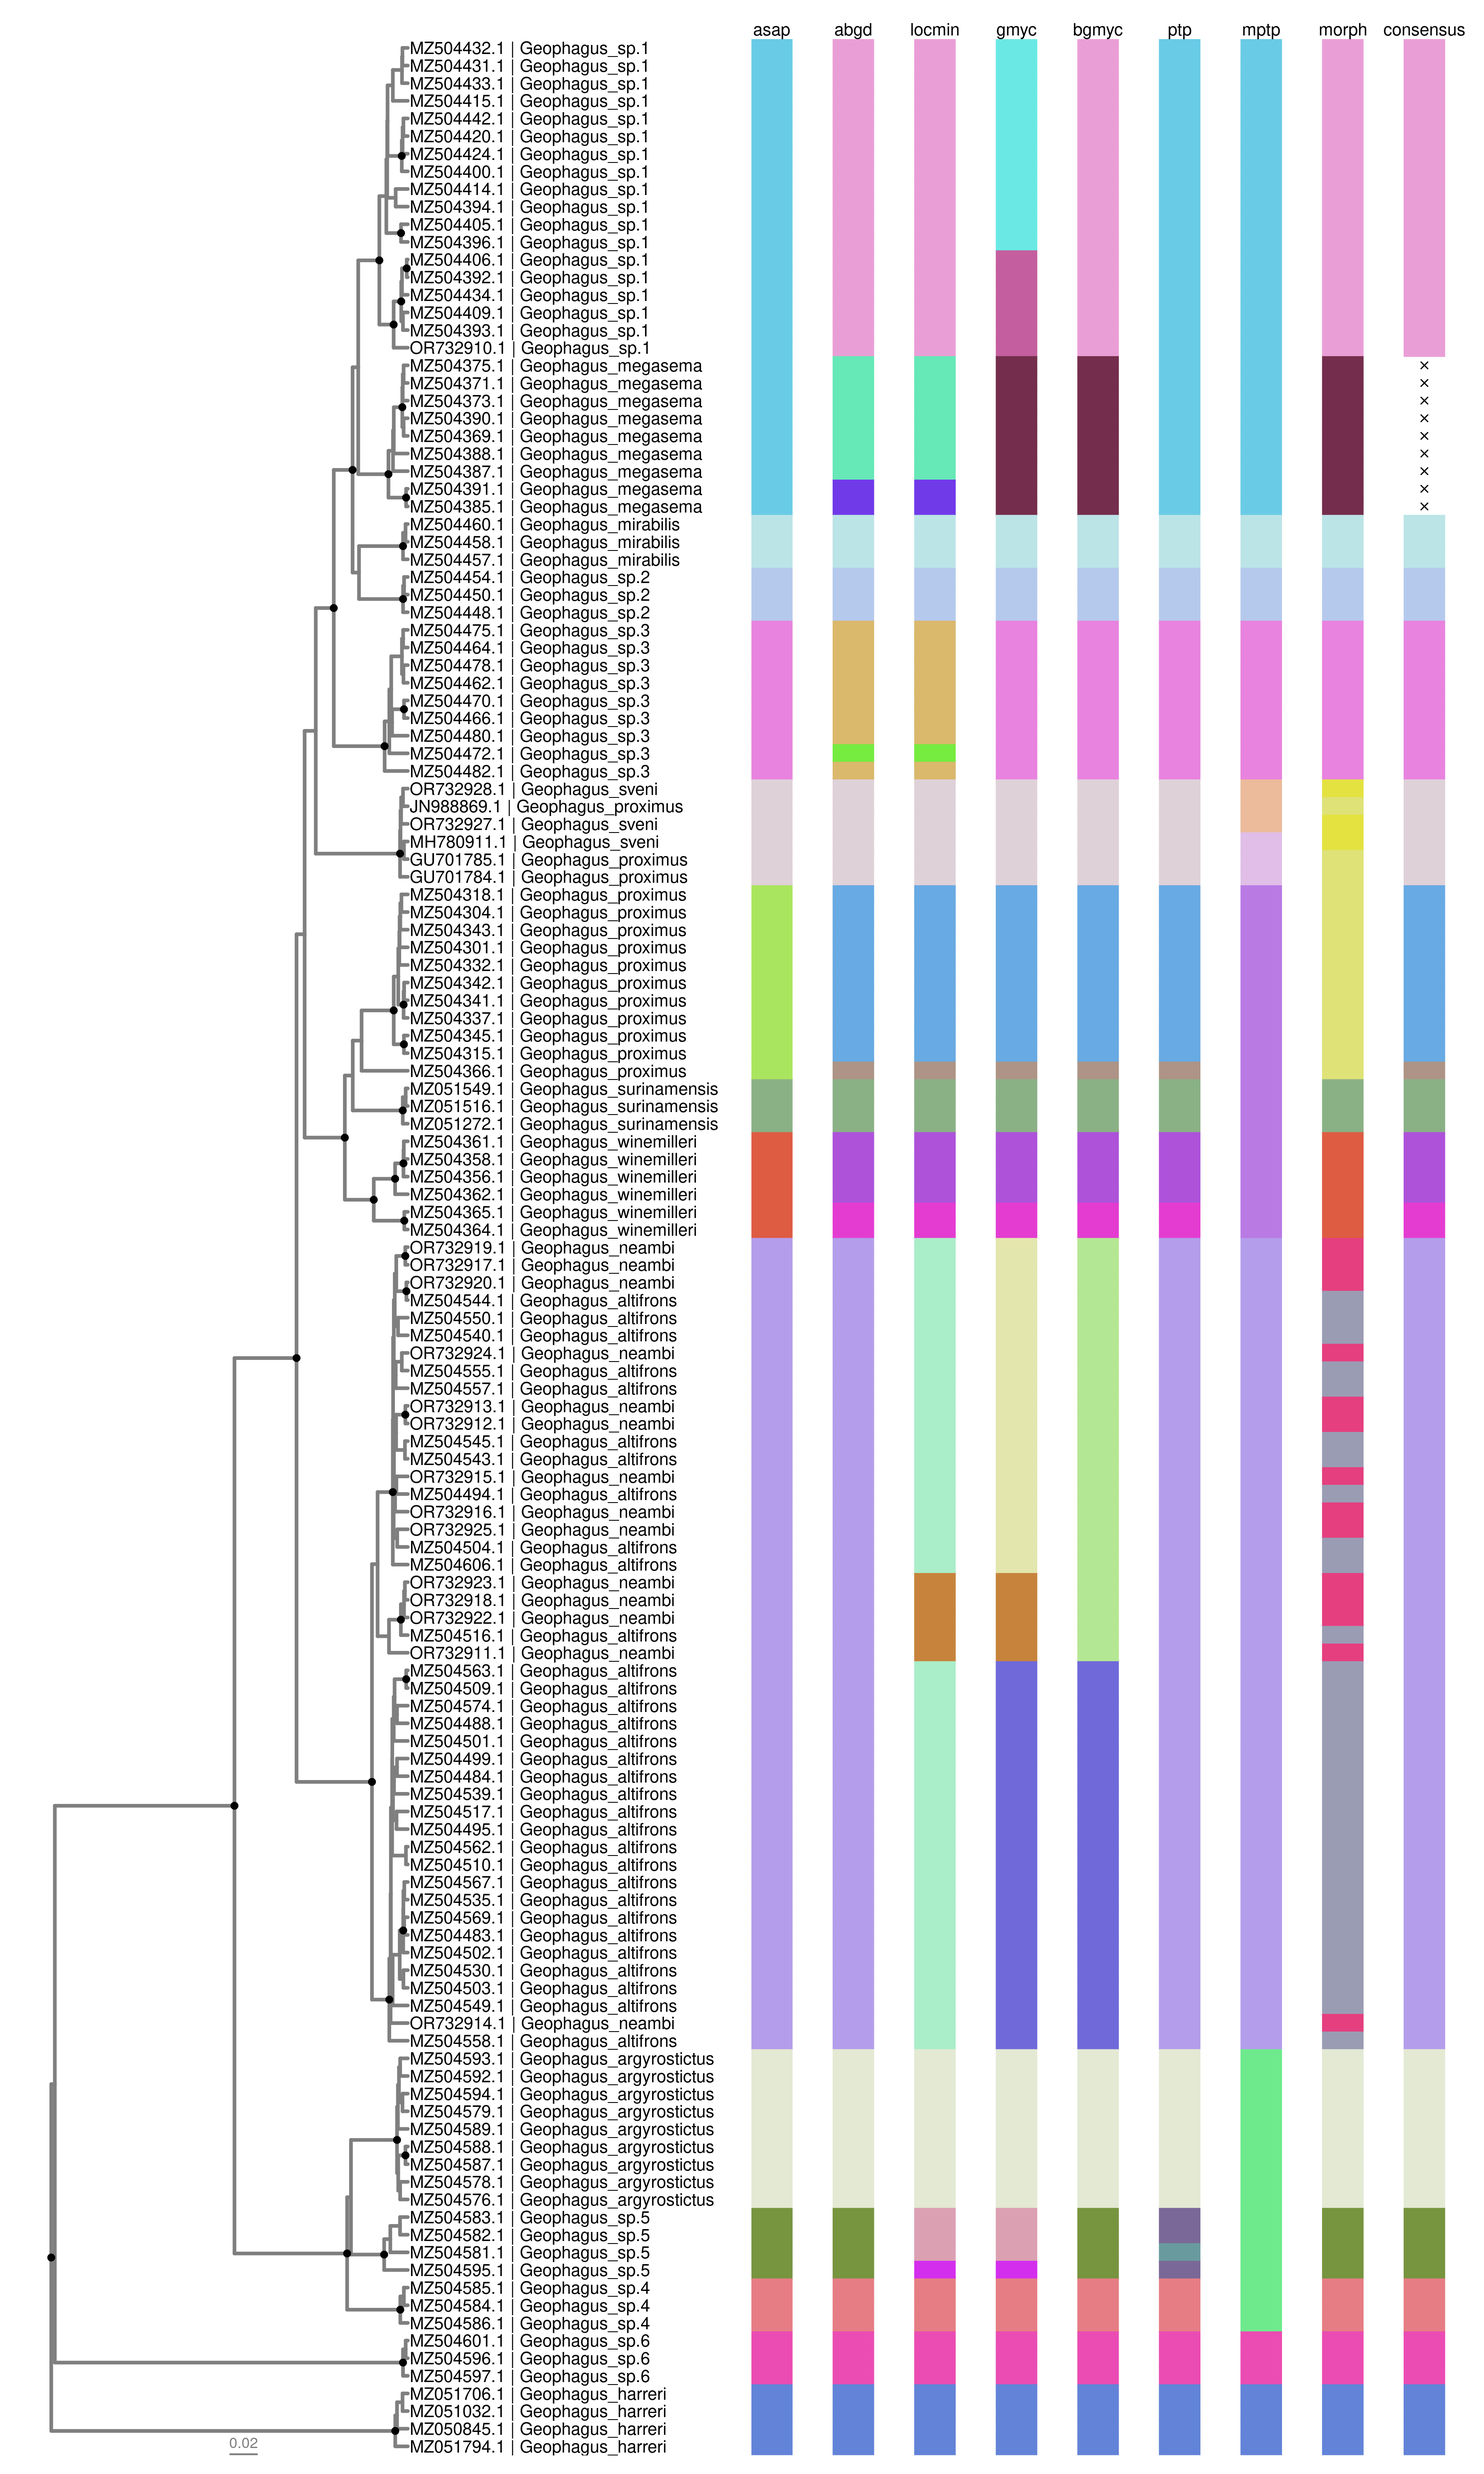
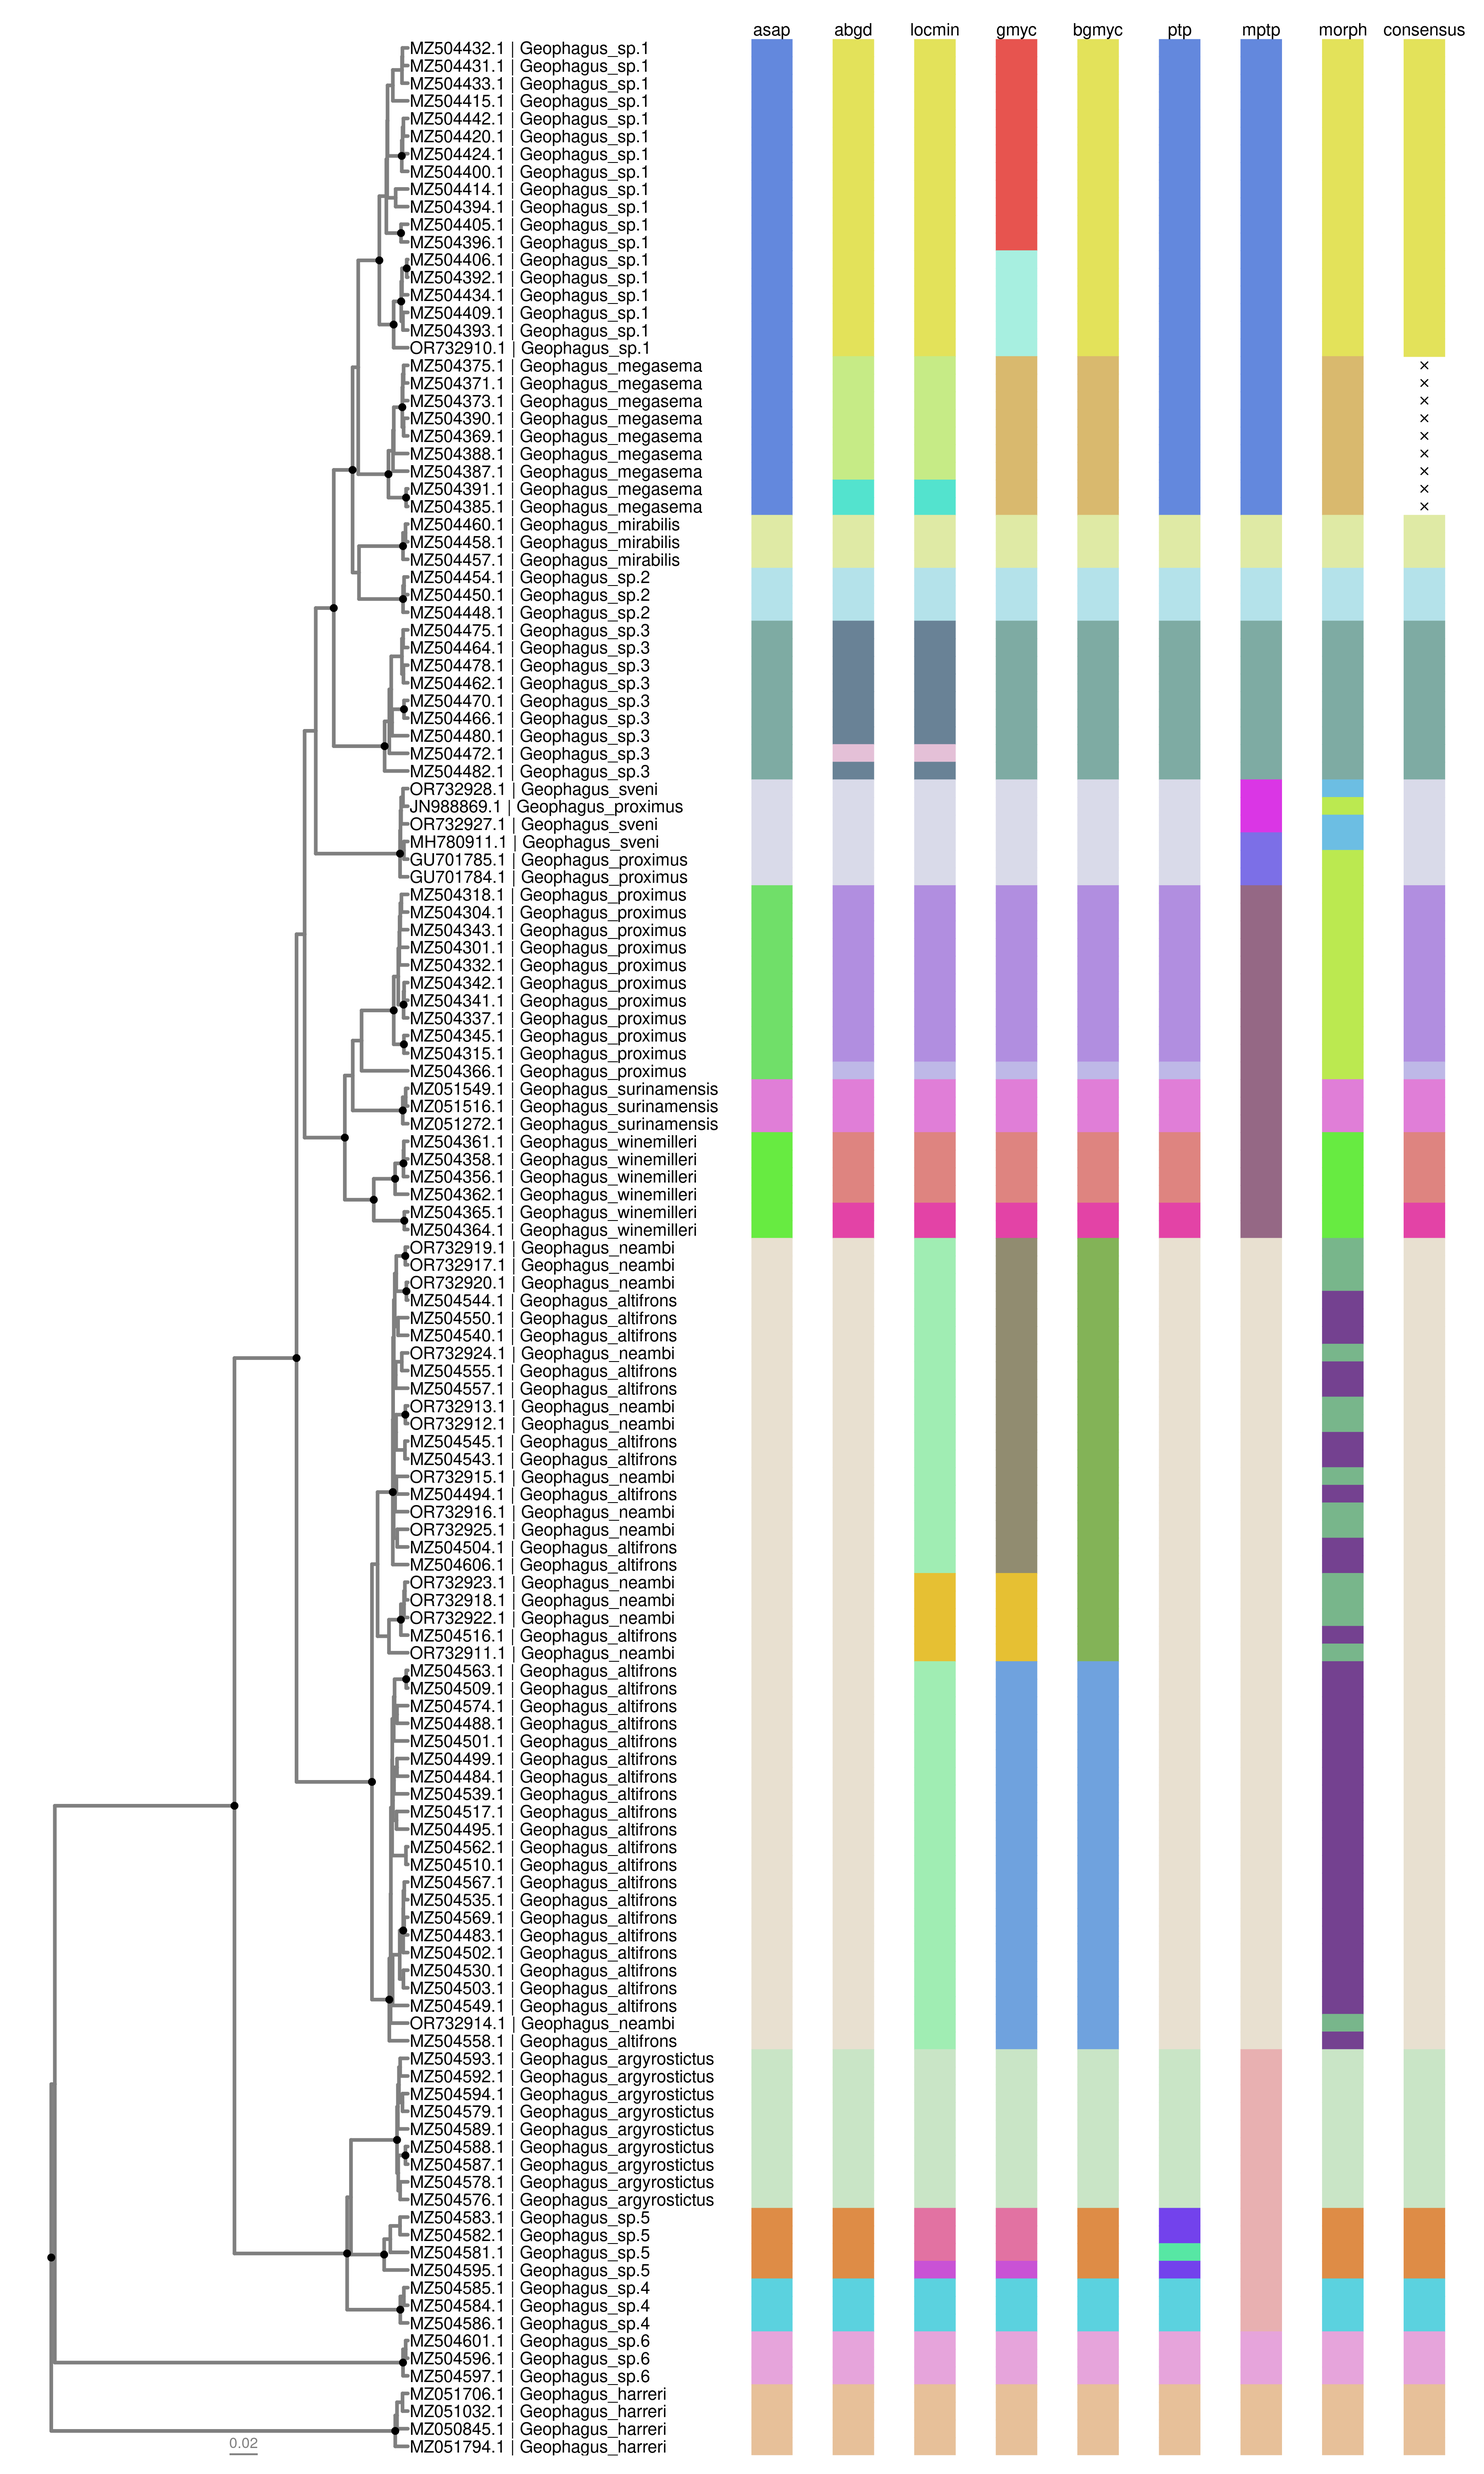
updating README to v0.3.x

Changed region(s): [[0.4978, 0.0, 0.9956, 0.9973]]

diff --git a/README.md b/README.md
@@ -1,4 +1,3 @@
-
 <!-- README.md is generated from README.Rmd. Please edit that file -->
 
 # delimtools <img src="man/figures/logo.png" align="right" height="138"  />
@@ -12,33 +11,28 @@ status](https://www.r-pkg.org/badges/version/delimtools)](https://cran.r-project
 
 ## IMPORTANT
 
-This software is under active development, and as such cannot be assumed
-to be free of bugs or poor functionality. Always inspect results
-carefully. If you find a problem, please report it with as much detail
-as possible in [Issues](https://github.com/LegalLab/delimtools/issues).
-Unfortunately in its current form, some of the functions (`abgd_tbl()`,
-`asap_tbl()` and `mptp_tbl()`) will not work natively on Windows
-operating systems, only on Unix (MacOS, Linux). This is because third
-party binaries (executable programs) are required. We have implemented a
-Windows solution by importing results from the webservers that are
-commonly used to run these analyses, e.g. ABGD, ASAP, and
-[mPTP](https://mptp.h-its.org/). There are also difficulties with
-installing R required package dependancies to run `gmyc_tbl()` and
-`bgmyc_tbl()` because these are no longer under development and
-available on CRAN, and must be installed from archived sources. Please
-refer to <https://legallab.github.io/delimtools/articles/install.html>
-for instructions on how to install. A tutorial vignette running through
-all major package functionality is found at
+This software is under development, and as such cannot be assumed to be
+free of bugs or poor functionality. Always inspect results carefully. If
+you find a problem, please report it with as much detail as possible in
+[Issues](https://github.com/LegalLab/delimtools/issues). The current
+version is completely stand alone, no longer depending on third party
+binaries or R dependencies no longer available on CRAN. The affected
+functions, however, retain their legacy behavior for now and
+instructions for installing the third party binaries and R dependencies
+are provided at
+<https://legallab.github.io/delimtools/articles/install.html>. A
+tutorial vignette running through all major package functionality is
+found at
 <https://legallab.github.io/delimtools/articles/delimtools.html>.
 
-## delimtools v0.3.0 - Announcement
+## delimtools v1.0.0 - Announcement
 
-The next major release of delimtools (v0.3.0) will provide native R
-ports for all species delimitation software currently supported by this
-package. This means that ABGD, ASAP, bGMYC, GMYC and mPTP, previously
-dependent on external binaries or third-party R packages, will run
-**entirely** within the R environment, with performance-critical
-likelihood computations handled by embedded C code.
+As of v0.3.0, delimtools provides native R ports for all species
+delimitation software currently supported by this package. This means
+that ABGD, ASAP, bGMYC, GMYC and mPTP, previously dependent on external
+binaries or third-party R packages, will run **entirely** within the R
+environment, with performance-critical likelihood computations handled
+by embedded C code.
 
 These R ports were developed with the assistance of Claude (Anthropic),
 under continuous human supervision. This porting process prioritezed
@@ -57,21 +51,24 @@ some time, but will eventually be deprecated in the next updates.
 
 ## Overview
 
-The official GitHub repository for the R package `delimtools`
+This is the official GitHub repository for the R package `delimtools`
 ([Bittencourt, Collins & Hrbek,
 2026](https://doi.org/10.1139/gen-2025-0119)).
 
-`delimtools` provides helper functions for the analysis of single-locus
-species delimitation methods such as GMYC ([Monaghan et al.,
+Single-lucus species delimitation analyses have been implemented in a
+diversity of packages that use different methods to delimit species.
+These include GMYC ([Monaghan et al.,
 2009](https://doi.org/10.1093/sysbio/syp027)), bGMYC ([Reid & Carstens,
 2012](https://doi.org/10.1186/1471-2148-12-196)), mPTP ([Kapli et al.,
 2017](https://doi.org/10.1093/bioinformatics/btx025)) and ASAP
 ([Puillandre et al., 2020](https://doi.org/10.1111/1755-0998.13281)).
-These software run multiple different platforms (e.g. R, Unix,
-webservers), and also do not output their results in a consistent format
-to allow easy comparison. To address these shortcomings we have
-developed a suite of functions to standardise and simplify generating
-single-locus species delimitations.
+These software run on different platforms (e.g. R, Unix, webservers),
+and also do not output their results in a consistent format to allow
+easy comparison. To address these shortcomings we have developed a suite
+of functions in the `delimtools` package that replicate the behavior of
+these software, and then standardize and simplify the output of these
+functions. This then permits comparison of the delimitation analyses,
+and unified visualization of the delimitation results.
 
 ## Dependencies
 
@@ -108,7 +105,7 @@ install.packages("delimtools")
 Development version from GitHub:
 
 ``` r
-devtools::install_github("LegalLab/delimtools")
+pak::pak("LegalLab/delimtools")
 ```
 
 Or a specific version via renv:
@@ -121,9 +118,9 @@ renv::install("LegalLab/delimtools@v0.1.0")
 
 Here, we will demonstrate plotting a single-locus species delimitation
 analysis of a *Geophagus* eartheater cichlid dataset ([Ximenes et al.,
-2021](https://doi.org/10.7717/peerj.12443)) using a variety of methods.
-A tutorial vignette running through all major package functionality is
-found at
+2021](https://doi.org/10.7717/peerj.12443)) using a diversity of
+methods. A tutorial vignette running through all major package
+functionality is found at
 <https://legallab.github.io/delimtools/articles/delimtools.html>.
 
 <figure>
@@ -141,11 +138,11 @@ library(dplyr)
 # make tip label table
 tip.tab <- geophagus_info |> 
   filter(gbAccession %in% geophagus_beast@phylo$tip.label) |>
-  mutate(labs= glue::glue("{gbAccession} | {scientificName}")) |> 
+  mutate(labs = glue::glue("{gbAccession} | {scientificName}")) |> 
   select(gbAccession, labs, scientificName)
 
-# get cols
-cols <- delim_brewer(delim= geophagus_delims, package="randomcoloR", seed=42)
+# get columns
+cols <- delim_brewer(delim = geophagus_delims, package = "randomcoloR", seed = 42)
 
 # plot
 delim_autoplot(delim = geophagus_delims, 
@@ -162,8 +159,7 @@ delim_autoplot(delim = geophagus_delims,
 #> ℹ The deprecated feature was likely used in the ggtree package.
 #>   Please report the issue at <https://github.com/YuLab-SMU/ggtree/issues>.
 #> This warning is displayed once per session.
-#> Call `lifecycle::last_lifecycle_warnings()` to see where this warning was
-#> generated.
+#> Call `lifecycle::last_lifecycle_warnings()` to see where this warning was generated.
 ```
 
 ![](man/figures/README-example-1.png)<!-- -->
